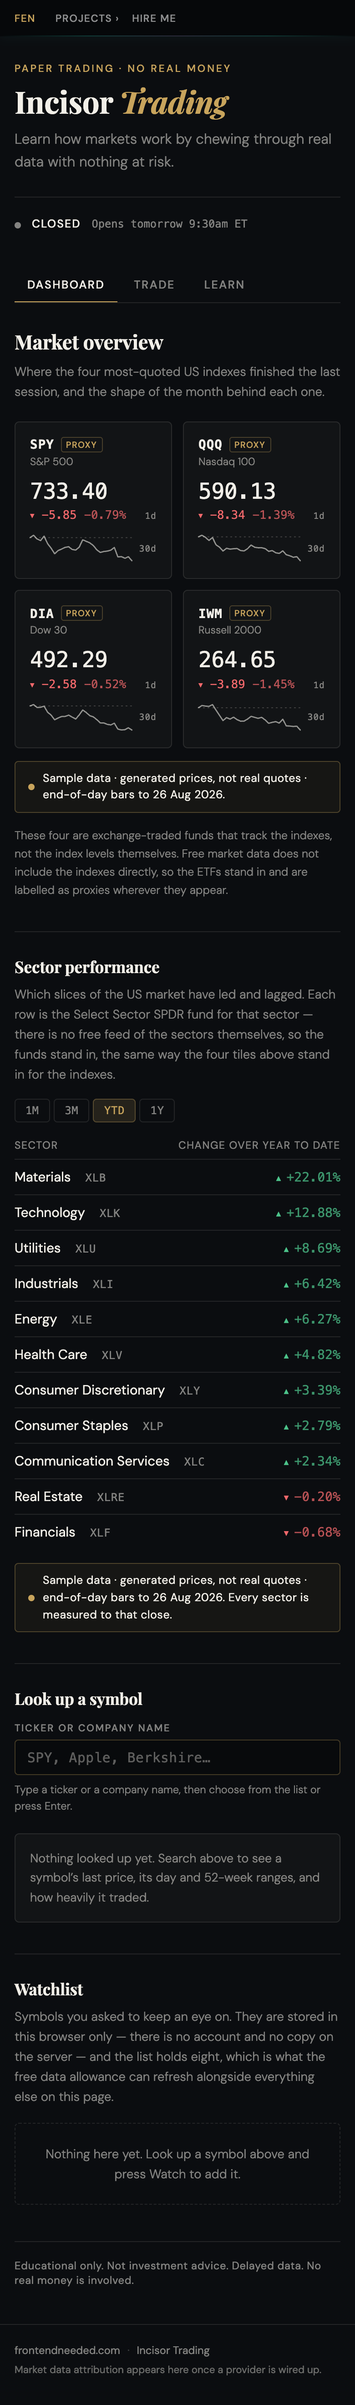
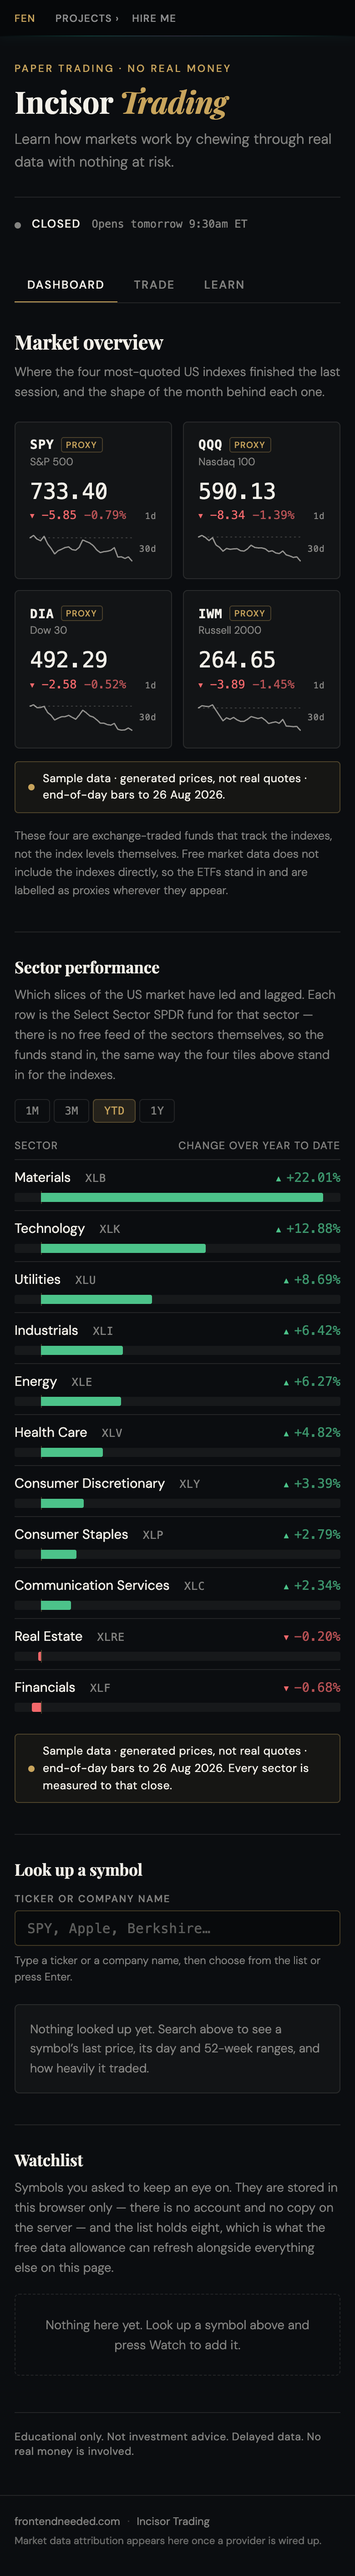
C: reshoot the sector grid and retire two stale reasons (audit)
The committed t10 sets were taken before the T9 audit changed the page
under them, and the mobile shot now shows a layout that no longer
exists. Reshot at all three widths against the same fixture service.

Only `t10-sectors/mobile.png` actually changed: desktop and tablet came
back byte-identical, which is the evidence that the new breakpoint
leaves the beside-the-name layout alone.

The tablet shot is kept here, against the rule that usually deletes it.
It is no longer the desktop picture at a narrower measure: 768 is now
the tightest the beside layout ever gets, 68px above the breakpoint,
and it is the only picture that would show that width failing.

`t10-sectors-fell/README.md` gave two reasons for being desktop-only
and the audit made both false — the axis is no longer "only on screen
above 560px", and the mobile shot no longer "has no bar at all". The
set stays desktop-only on the reason that survives: the mirrored axis
is the same fact at every width, so it is held once where it reads
largest.

diff --git a/incisor-trading/docs/shots/t10-sectors-fell/README.md b/incisor-trading/docs/shots/t10-sectors-fell/README.md
@@ -2,10 +2,14 @@ Desktop only, on purpose.
 
 This set exists to hold one picture: a window where all but one sector fell,
 which draws the mirror of the default view — the zero line near the right, bars
-growing left from it. That is a fact about the axis, and the axis is only on
-screen above 560px. The tablet shot showed the same eleven rows at a narrower
-width, and the mobile shot has no bar at all, so both said what
-`t10-sectors/` already says.
+growing left from it. That is a fact about the axis, and it is the same fact at
+every width, so it is held once at the width it reads largest.
+
+The reason used to be that the axis was only on screen above 560px, because the
+narrow rule deleted the bar. It does not any more — the T10 audit stacked the
+bar under the name instead — so the mobile shot in `t10-sectors/` shows the
+stacked layout and this one shows the mirrored axis, and neither needs to show
+both.
 
     ./.devtools/bin/python tools/shoot.py --out docs/shots/t10-sectors-fell \
         --api http://127.0.0.1:8789 --sector-window 1M

diff --git a/incisor-trading/docs/shots/README.md b/incisor-trading/docs/shots/README.md
@@ -25,3 +25,10 @@ Sets currently at desktop and mobile only: `t9-watchlist`, `t9-watch-toggle`,
 `t9-storage-blocked`. The watchlist's one width-dependent behaviour is the trend
 column, which is present at 768 and at 1440 and hidden below 460 — so desktop
 and mobile bracket it and tablet sits in the middle saying neither.
+
+`t10-sectors` keeps its tablet shot for the opposite reason. The grid stacks its
+bar under the sector name below 700px and sets it beside the name above, so
+desktop and mobile show the two layouts — and 768 is the tightest the beside
+layout ever gets, 68px above the breakpoint, where the bar is 343px rather than
+the 544px desktop gives it. If that width ever stops working, this is the only
+picture that would show it.
